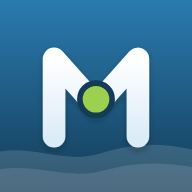
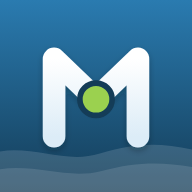
Ícone M: as duas linhas unem-se na paragem, sem bico

diff --git a/src/components/Logo.tsx b/src/components/Logo.tsx
@@ -17,8 +17,8 @@ export function LogoMark({ className = 'h-9 w-9', onDark = false }: { className?
 <g clipPath="url(#rm-cl)"><path d="M-10 160C30 148 66 172 104 160S170 148 210 158V210H-10Z" fill="#fff" fillOpacity=".14"/><path d="M-10 178C34 168 68 188 106 178S172 168 210 176V210H-10Z" fill="#fff" fillOpacity=".12"/></g>
 
 <g filter="url(#rm-sh)">
-<path d="M48 150V54L100 112" fill="none" stroke="url(#rm-gv)" strokeWidth="28" strokeLinecap="round" strokeLinejoin="round"/>
-<path d="M100 112L152 54V150" fill="none" stroke="url(#rm-rv)" strokeWidth="28" strokeLinecap="round" strokeLinejoin="round"/>
+<path d="M48 150V54L100 104" fill="none" stroke="url(#rm-gv)" strokeWidth="28" strokeLinecap="round" strokeLinejoin="round"/>
+<path d="M100 104L152 54V150" fill="none" stroke="url(#rm-rv)" strokeWidth="28" strokeLinecap="round" strokeLinejoin="round"/>
 </g>
 <circle cx="100" cy="104" r="20" fill="#9bd14f" stroke="#143c57" strokeWidth="7"/>
 
